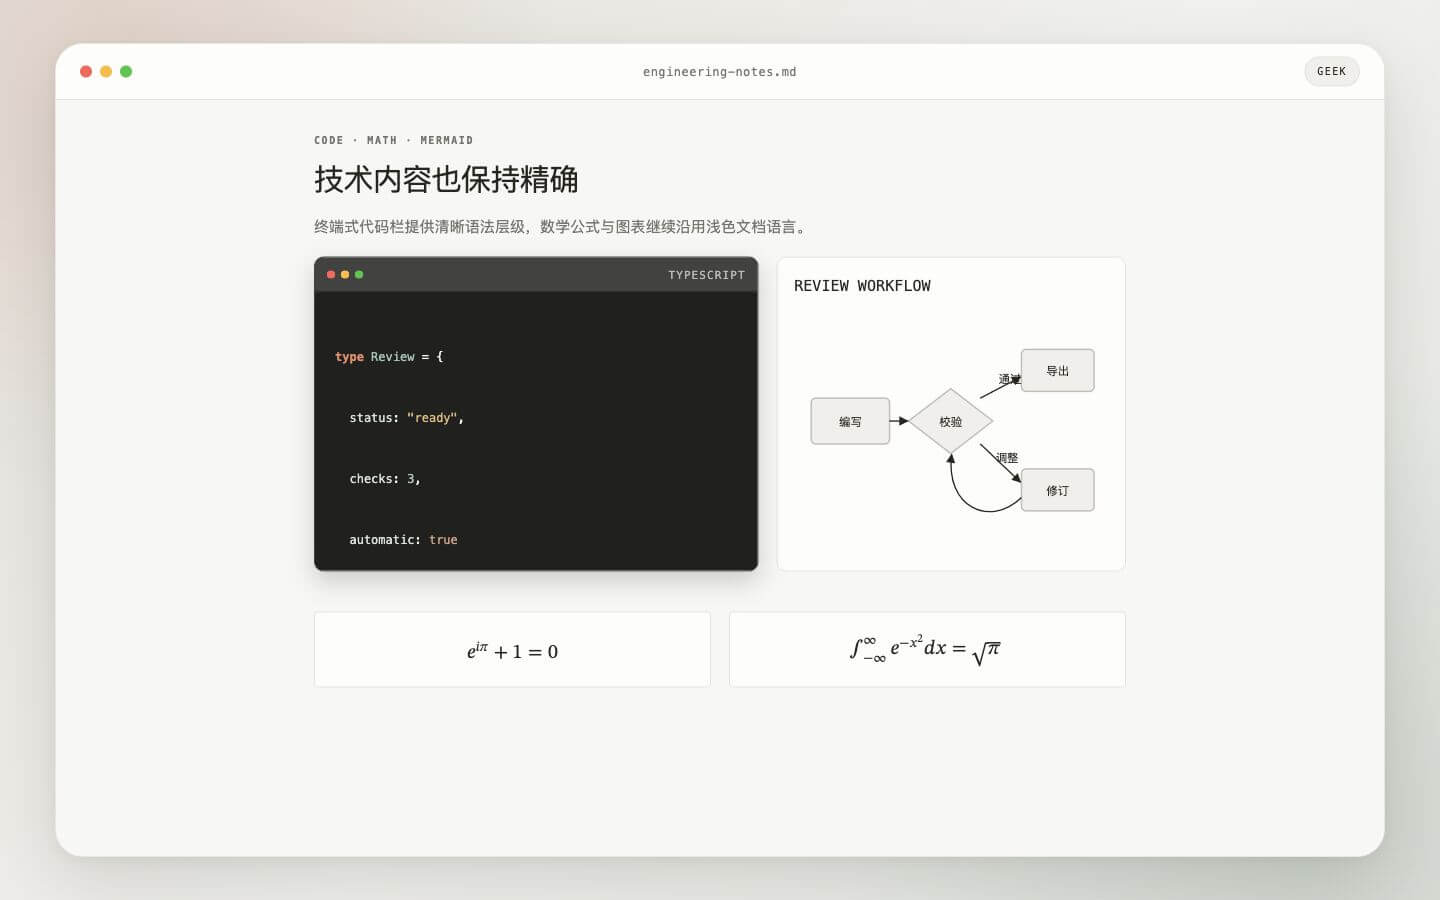
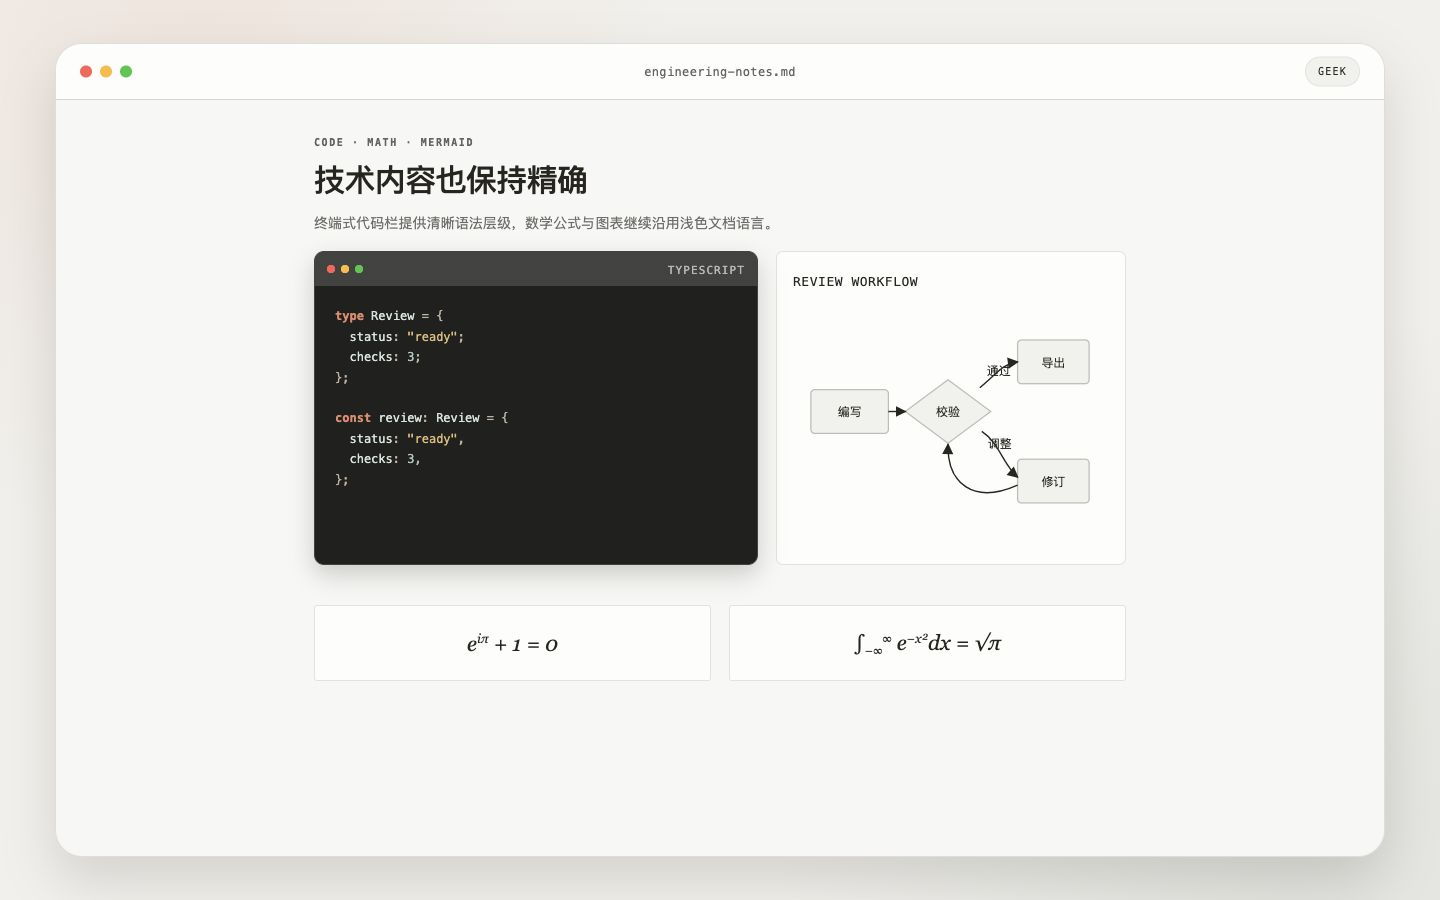
fix: refine Geek lists and Mermaid styling

diff --git a/geek/geek.css b/geek/geek.css
@@ -31,6 +31,11 @@
   --math-parameter-color: #376b59;
   --math-meta-color: #6f6d66;
   --math-cursor-color: #d04f2b;
+  --diagram-bg-color: #fdfdfc;
+  --diagram-node-bg-color: #f0efea;
+  --diagram-node-border-color: #bdbcb8;
+  --diagram-line-color: #26251e;
+  --diagram-label-bg-color: #fdfdfc;
   --selection-color: rgba(38, 37, 30, 0.16);
   --shadow-color: rgba(38, 37, 30, 0.12);
   --shadow-strong-color: rgba(38, 37, 30, 0.2);
@@ -254,7 +259,7 @@ content {
 
 #write li {
   margin: 0 0 0.5333rem;
-  padding-left: 0.2667rem;
+  padding-left: 0.1rem;
   color: var(--text-color);
   font-size: 1rem;
   line-height: 1.5;
@@ -262,7 +267,7 @@ content {
 
 #write li::marker {
   color: var(--muted-text-color);
-  font-family: var(--monospace);
+  font-family: var(--body-font);
   font-variant-numeric: tabular-nums;
 }
 
@@ -684,18 +689,59 @@ pre.md-meta-block {
   padding: 1.0667rem;
   border: 1px solid var(--border-soft-color);
   border-radius: var(--radius-medium);
-  background: var(--surface-raised-color);
+  background: var(--diagram-bg-color);
 }
 
 .md-diagram-panel svg text {
-  fill: var(--text-color);
+  fill: var(--text-color) !important;
+}
+
+.md-diagram-panel svg .nodeLabel,
+.md-diagram-panel svg .nodeLabel p,
+.md-diagram-panel svg .nodeLabel span,
+.md-diagram-panel svg .edgeLabel p,
+.md-diagram-panel svg .edgeLabel span {
+  color: var(--text-color) !important;
 }
 
 .md-diagram-panel svg .node rect,
 .md-diagram-panel svg .node circle,
-.md-diagram-panel svg .node polygon {
-  fill: var(--surface-color);
-  stroke: var(--border-strong-color);
+.md-diagram-panel svg .node ellipse,
+.md-diagram-panel svg .node polygon,
+.md-diagram-panel svg .node path {
+  fill: var(--diagram-node-bg-color) !important;
+  stroke: var(--diagram-node-border-color) !important;
+  stroke-width: 1.25px !important;
+}
+
+.md-diagram-panel svg .node rect {
+  rx: var(--radius-small);
+  ry: var(--radius-small);
+}
+
+.md-diagram-panel svg .edgePath path,
+.md-diagram-panel svg path.flowchart-link,
+.md-diagram-panel svg .relationshipLine {
+  stroke: var(--diagram-line-color) !important;
+  stroke-width: 1.4px !important;
+}
+
+.md-diagram-panel svg marker path,
+.md-diagram-panel svg .arrowheadPath {
+  fill: var(--diagram-line-color) !important;
+  stroke: var(--diagram-line-color) !important;
+}
+
+.md-diagram-panel svg .edgeLabel rect,
+.md-diagram-panel svg rect.labelBkg {
+  fill: var(--diagram-label-bg-color) !important;
+  opacity: 1 !important;
+}
+
+.md-diagram-panel svg .cluster rect {
+  fill: var(--surface-muted-color) !important;
+  stroke: var(--border-color) !important;
+  stroke-width: 1px !important;
 }
 
 .footnotes {
